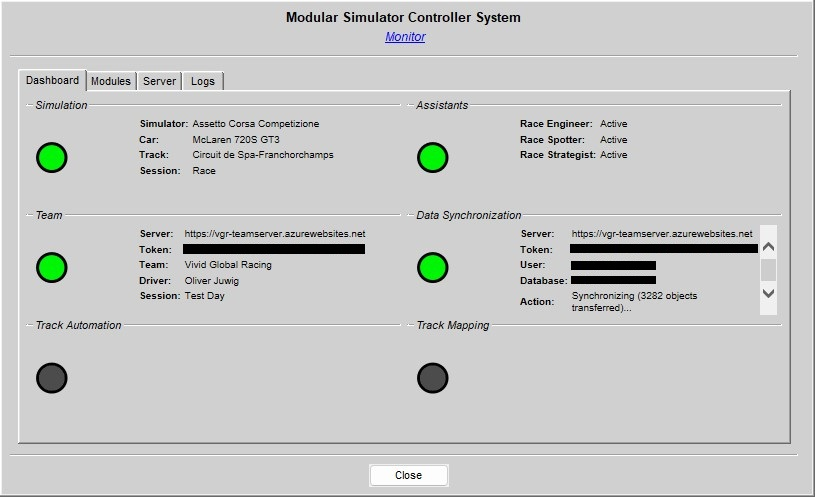
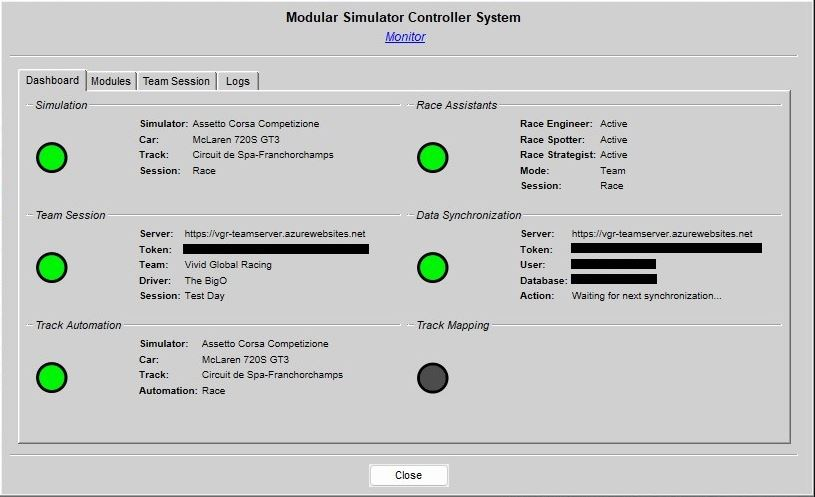
Optimized data synchronization

diff --git a/Docs/Releases.md b/Docs/Releases.md
@@ -4,6 +4,8 @@
   3. Telemetry and pressures synchronization can be choosen separately in the "Session Database".
   4. New monitoring tool gives you an integrated view over the health and activities of all system components. See the all new [documentation](*) for more information.
   5. Changed the upload / download of the community setup database to a new FTP service provider.
+  6. Telemetry data synchronization will pick up at the right point in time after a system failure.
+  7. ECU Map and Caster are now supported for *Assetto Corsa Competizione* in "Setup Advisor".  
 
 ## 4.4.0.0-release 10/21/22
   1. Minor bugfixes, as always
